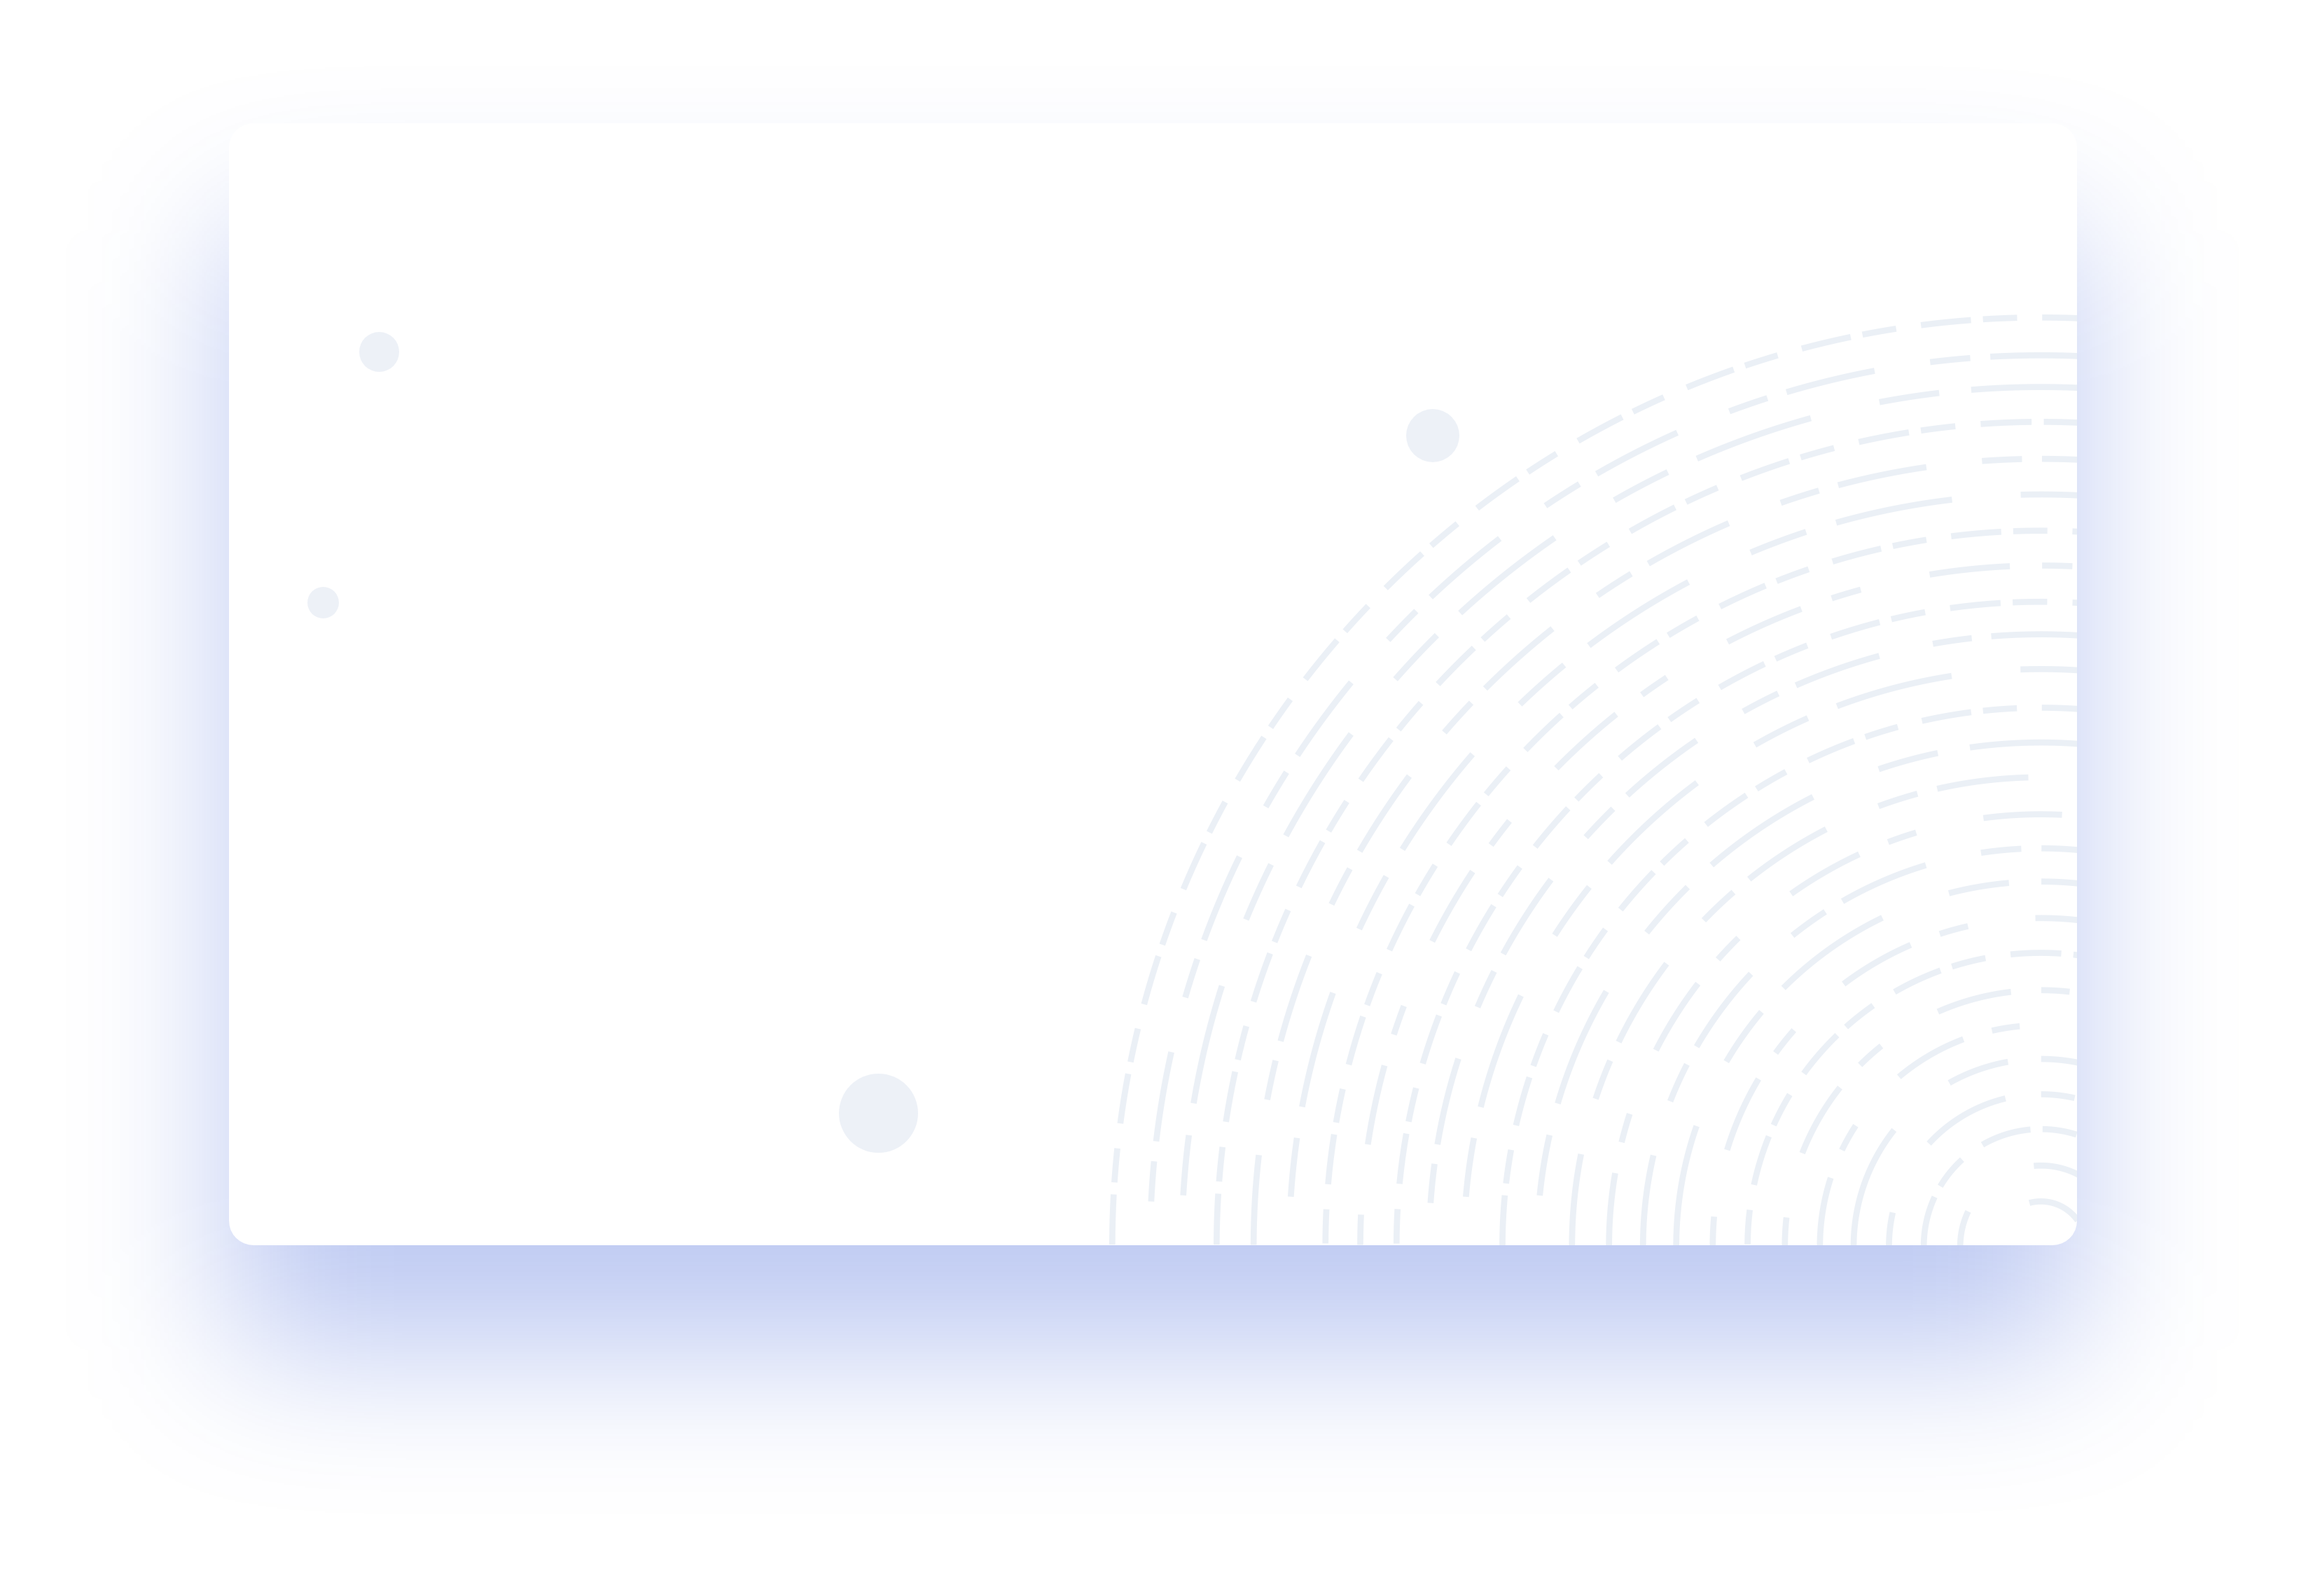
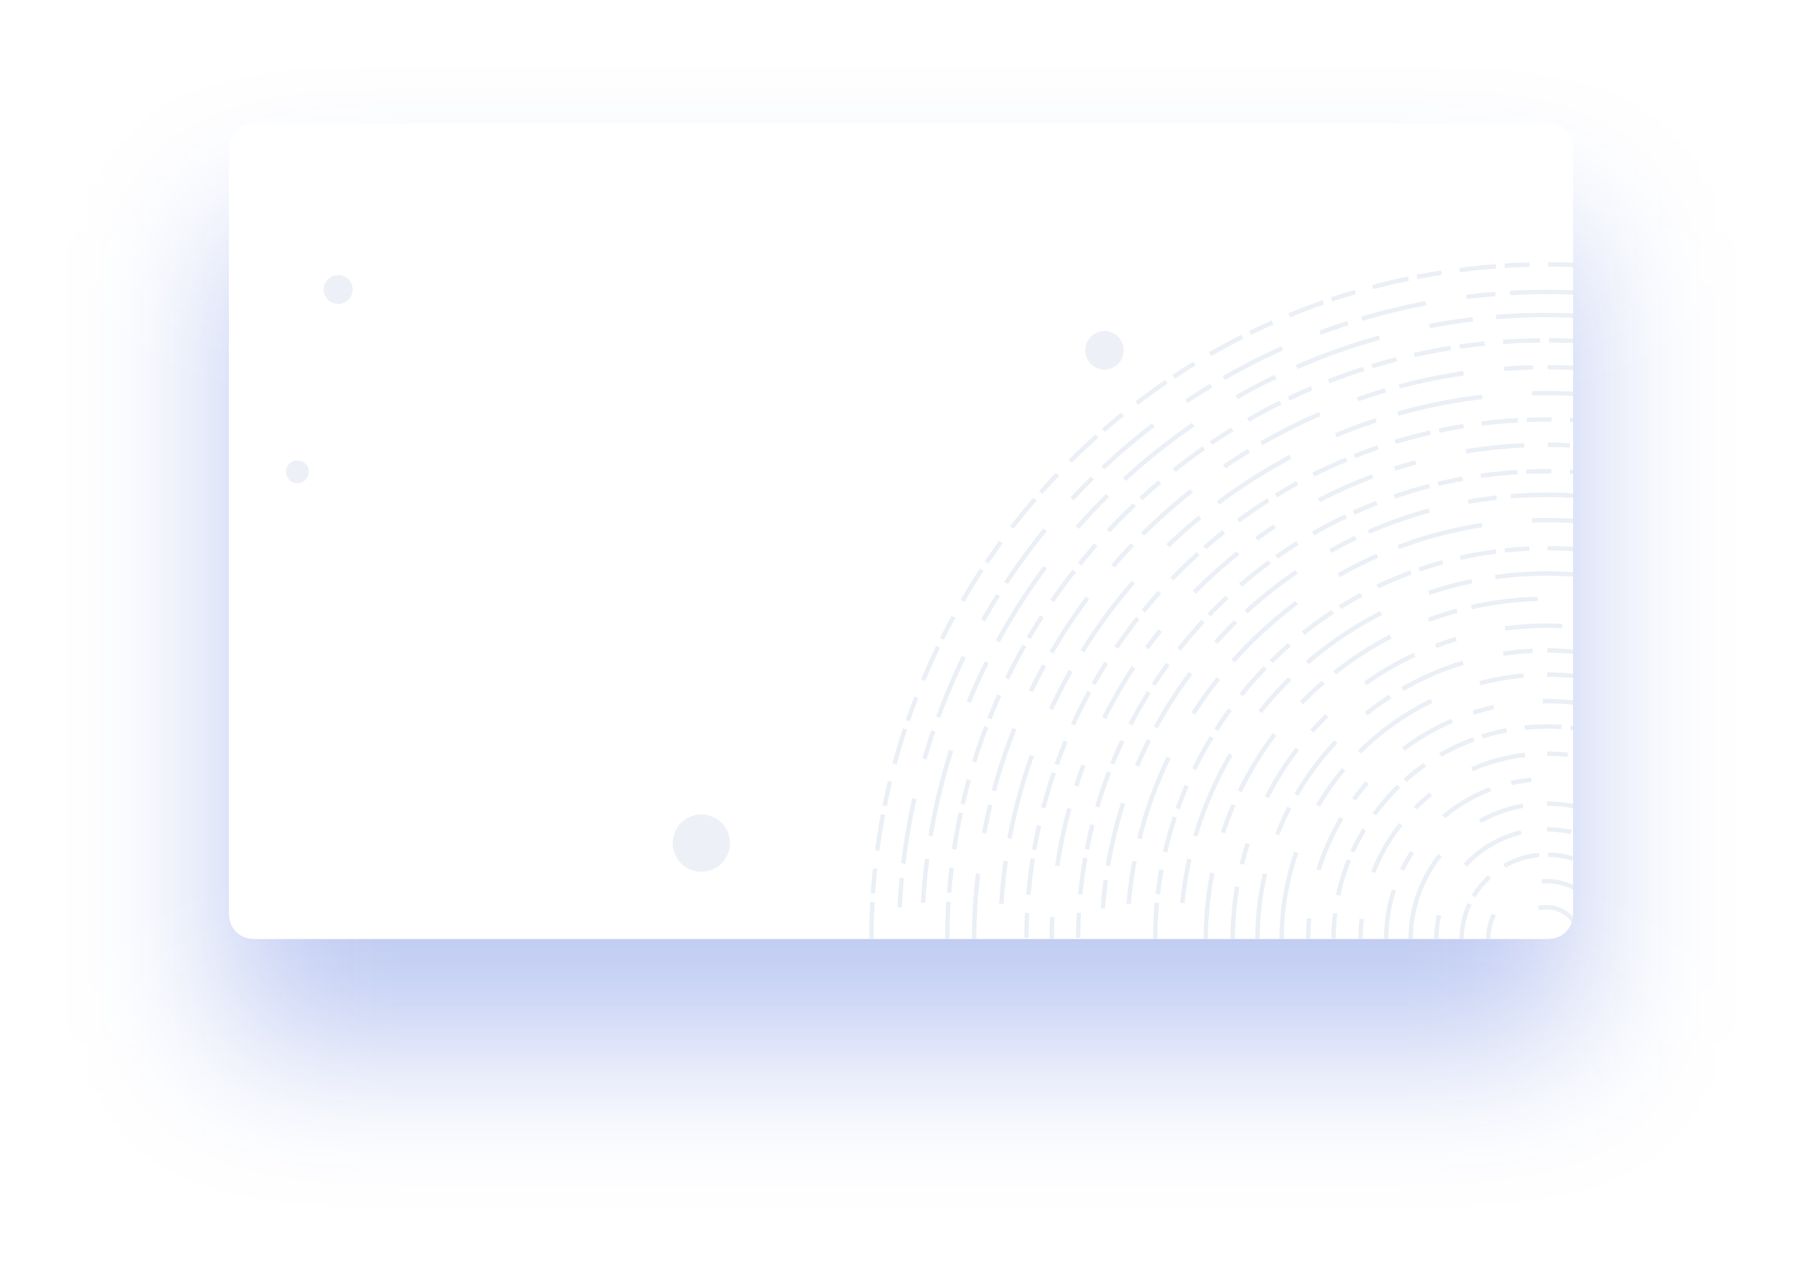
changed image sizes and added more css

Changed region(s): [[0.0932, 0.2462, 0.9013, 0.8308]]

diff --git a/styles.css b/styles.css
@@ -15,10 +15,17 @@
   font-size: 100%;
   vertical-align: baseline;
   background: transparent;
-  text-decoration: none; }
+  text-decoration: none;
+  list-style: none; }
 
 html {
-  font-family: "sfproSemi"; }
+  font-family: "sfproSemi";
+  background-image: url(images/Clip.png);
+  background-repeat: no-repeat;
+  background-position: center;
+  background-size: cover;
+  height: 100vh;
+  position: relative; }
 
 /*------ header/navigation ------*/
 header {
@@ -30,50 +37,64 @@ header {
   display: -ms-flexbox;
   display: flex;
   height: 55px;
-  margin-top: 20px;
-  -ms-flex-pack: distribute;
-  justify-content: space-around; }
+  margin-top: 80px;
+  -webkit-box-pack: justify;
+  -ms-flex-pack: justify;
+  justify-content: space-between; }
+  .container nav {
+    display: -webkit-box;
+    display: -ms-flexbox;
+    display: flex; }
+    .container nav ul {
+      display: -webkit-box;
+      display: -ms-flexbox;
+      display: flex;
+      -webkit-box-align: center;
+      -ms-flex-align: center;
+      align-items: center;
+      font-size: 22px; }
+      .container nav ul li {
+        margin: 0 30px; }
+      .container nav ul img {
+        margin-right: 20px;
+        margin-left: 20px; }
 
-.container > img {
-  margin-left: 0px; }
-
-nav {
-  display: -webkit-box;
-  display: -ms-flexbox;
-  display: flex;
-  -ms-flex-preferred-size: 80%;
-  flex-basis: 80%; }
-
-nav .logo {
-  width: auto; }
-
-nav ul {
-  padding: 0;
-  list-style: none;
-  font-size: 30px;
-  width: 100%;
-  display: -webkit-box;
-  display: -ms-flexbox;
-  display: flex;
-  -webkit-box-align: center;
-  -ms-flex-align: center;
-  align-items: center;
-  -webkit-box-pack: center;
-  -ms-flex-pack: center;
-  justify-content: center; }
-
-h1 {
-  font-family: 'sfproBold';
-  font-size: 90px;
-  color: #2A3384; }
-
-span {
-  color: #096AED; }
-
-p {
-  font-family: 'sfproBold';
-  font-size: 40px;
+.item {
+  width: 10px;
   color: #BFCEE1; }
+
+.info {
+  display: -webkit-box;
+  display: -ms-flexbox;
+  display: flex;
+  -webkit-box-pack: justify;
+  -ms-flex-pack: justify;
+  justify-content: space-between;
+  margin-top: 180px; }
+  .info .check {
+    display: -webkit-box;
+    display: -ms-flexbox;
+    display: flex;
+    -webkit-box-orient: vertical;
+    -webkit-box-direction: normal;
+    -ms-flex-direction: column;
+    flex-direction: column;
+    -webkit-box-align: start;
+    -ms-flex-align: start;
+    align-items: flex-start;
+    margin-top: 50px; }
+    .info .check h1 {
+      margin: 30px 0 30px 0;
+      font-family: 'sfproBold';
+      font-size: 67px;
+      color: #2A3384; }
+    .info .check span {
+      color: #096AED; }
+    .info .check p {
+      margin-bottom: 80px;
+      font-family: 'sfproBold';
+      font-size: 29px;
+      color: #BFCEE1; }
 
 .click {
   display: -webkit-box;

diff --git a/index.html b/index.html
@@ -10,27 +10,24 @@
     <div class="container"><a href="#"><img class="logo" src="images/LOGO.png" alt="logo"></a>
       <nav>
         <ul>
-          <li><a href="#"><img src="images/Group%202.png" alt="home button" id="home"></a></li>
-          <li><a href="#">Pay with Nova</a></li>
-          <li><a href="#">Cards</a></li>
-          <li><a href="#">About Us</a></li>
-          <li><a href="#">Contact Us</a></li>
-          <li><a href="#"><img class="laL" src="images/SEARCH.png" alt="search icon"></a></li>
-          <li><a href="#"><img class="laR" src="images/USER.png" alt="User icon"></a></li>
+          <li><a class="item" href="#"><img src="images/Group%202.png" alt="home button" id="home"></a></li>
+          <li><a class="item" href="#">Pay with Nova</a></li>
+          <li><a class="item" href="#">Cards</a></li>
+          <li><a class="item" href="#">About Us</a></li>
+          <li><a class="item" href="#">Contact Us</a></li>
+          <li><a class="item" href="#"><img class="laL" src="images/SEARCH.png" alt="search icon"></a></li>
+          <li><a class="item" href="#"><img class="laR" src="images/USER.png" alt="User icon"></a></li>
         </ul>
       </nav>
     </div>
-    <div class="infoLeft">
+    <div class="info">
       <div class="check"><img src="images/SAFE%20ICON.png" alt="safe icon">
         <h1>Go further with <span>Nova.</span></h1>
         <p>We are a global payments technology company <br/>working to enable consumers, businesses and<br/> banks to use digital currency.</p>
+        <div class="click"><a href="#"><img src="images/BUTTON%20JOIN%20US.png" alt="botton"></a><a href="#"><img src="images/BUTTON%20READ%20MORE.png" alt="botton"></a></div>
       </div>
+      <div class="cards"><img src="images/Group%201.png" alt="credit cards"></div>
     </div>
-    <div class="click">
-      <div class="leftBtn"><a href="#"><img src="images/BUTTON%20JOIN%20US.png" alt="botton"></a></div>
-      <div class="rightBtn"><a href="#"><img src="images/BUTTON%20READ%20MORE.png" alt="botton"></a></div>
-    </div>
-    <div class="infoRight"><img src="images/Group%201.png" alt="credit cards"></div>
     <div class="socialIcons"><a href="#"><img src="images/FACEBOOK.png" alt="facebook icon"></a><a href="#"><img src="images/TWITTER.png" alt="twitter icon"></a></div>
   </header>
 </html>

diff --git a/styles.sass b/styles.sass
@@ -17,10 +17,16 @@
   vertical-align: baseline
   background: transparent
   text-decoration: none
+  list-style: none
 
 html 
   font-family: "sfproSemi"
-  
+  background-image: url(images/Clip.png)
+  background-repeat: no-repeat
+  background-position: center
+  background-size: cover
+  height: 100vh
+  position: relative
 
 /*------ header/navigation ------*/
 header
@@ -30,42 +36,58 @@ header
 .container
   display: flex
   height: 55px
-  margin-top: 20px
-  justify-content: space-around
-
-.container > img
-  margin-left: 0px
+  margin-top: 80px
+  justify-content: space-between
   
-nav
-  display: flex
-  flex-basis: 80%
-  
-nav .logo
-  width: auto
-  
-nav ul
-  padding: 0
-  list-style: none
-  font-size: 30px
-  width: 100%
-  display: flex
-  align-items: center
-  justify-content: center
+  nav
+    display: flex
     
-h1 
-  font-family: 'sfproBold'
-  font-size: 90px
-  color: #2A3384
 
-span 
-  color: #096AED
-
-p 
-  font-family: 'sfproBold'
-  font-size: 40px
+    ul
+      display: flex
+      align-items: center
+      font-size: 22px
+      
+      li
+        margin: 0 30px
+        
+      img
+        margin-right: 20px
+        margin-left: 20px      
+  
+.item
+  width: 10px
   color: #BFCEE1
+    
+.info
+  display: flex
+  justify-content: space-between
+  margin-top: 180px
+  
+  .check
+    display: flex
+    flex-direction: column
+    align-items: flex-start
+    margin-top: 50px
+    
+    h1
+      margin: 30px 0 30px 0
+      font-family: 'sfproBold'
+      font-size: 67px
+      color: #2A3384
+
+    span 
+      color: #096AED  
+    
+    p
+      margin-bottom: 80px
+      font-family: 'sfproBold'
+      font-size: 29px
+      color: #BFCEE1
 
 .click
   display: flex
   align-items: center
+  
+
   
